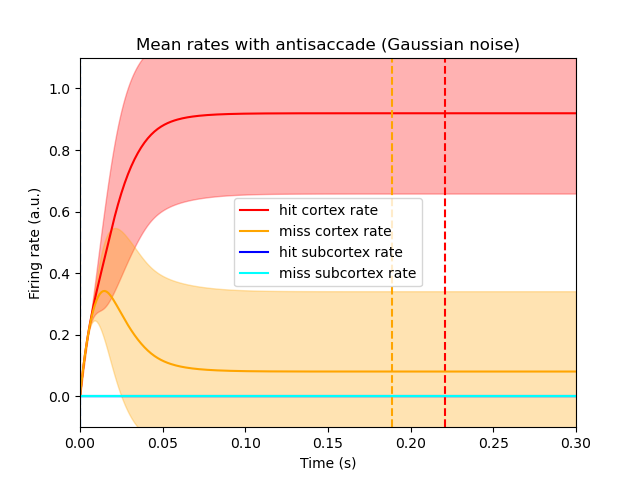
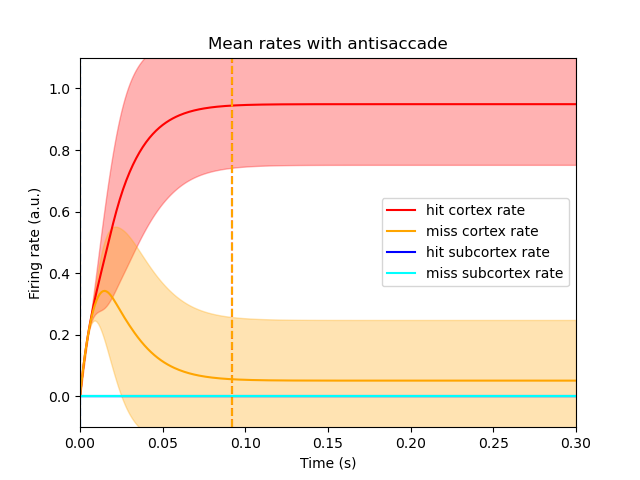
Restored stimuli-segregated plots

diff --git a/plotting.py b/plotting.py
@@ -2,6 +2,7 @@ import numpy as np
 import matplotlib.pyplot as plt
 import seaborn as sns
 import torch
+import scipy.stats as stats
 
 
 def plot_accuracy(measures, view=False, save=True):
@@ -230,39 +231,30 @@ def plot_decision_evolution(cortex_measures_pro, subcortex_measures_pro, cortex_
     time = np.arange(0, (total_time*dt)+dt, dt)
     labels = np.array(labels)
 
-    # Left and prosaccade
+    # prosaccade
     left_cortex = cortex_measures_pro[:, np.where(labels == 0)[0], :]
     right_cortex = torch.flip(cortex_measures_pro[:, np.where(labels == 1)[0], :], dims=[2])
     activations_cortex = torch.cat((left_cortex, right_cortex), dim=1)
     means_cortex = torch.mean(activations_cortex, dim=1)
-    std_cortex = torch.std(activations_cortex, dim=1)
+    std_cortex = stats.sem(activations_cortex, axis=1)
 
     left_subcortex = subcortex_measures_pro[:, np.where(labels == 0)[0], :]
     right_subcortex = torch.flip(subcortex_measures_pro[:, np.where(labels == 1)[0], :], dims=[2])
     activations_subcortex = torch.cat((left_subcortex, right_subcortex), dim=1)
     means_subcortex = torch.mean(activations_subcortex, dim=1)
-    std_subcortex = torch.std(activations_subcortex, dim=1)
+    std_subcortex = stats.sem(activations_subcortex, axis=1)
 
     equilibria = [None, None, None, None]
     for i in range(total_time):
 
-        if equilibria[0] is None and means_cortex[i, 0] == means_cortex[i+1, 0]:
-            equilibria[0] = i*dt
-        if equilibria[1] is None and means_cortex[i, 1] == means_cortex[i+1, 1]:
-            equilibria[1] = i*dt
-        if equilibria[2] is None and means_subcortex[i, 0] == means_subcortex[i+1, 0]:
-            equilibria[2] = i*dt
-        if equilibria[3] is None and means_subcortex[i, 1] == means_subcortex[i+1, 1]:
-            equilibria[3] = i*dt
-
-        '''        if equilibria[0] is None and np.abs(means_cortex[i, 0] - means_cortex[i+1, 0]) < 0.0003:
-            equilibria[0] = i*dt
-        if equilibria[1] is None and np.abs(means_cortex[i, 1] - means_cortex[i+1, 1]) < 0.0003:
-            equilibria[1] = i*dt
-        if equilibria[2] is None and np.abs(means_subcortex[i, 0] - means_subcortex[i+1, 0]) < 0.0003:
-            equilibria[2] = i*dt
-        if equilibria[3] is None and np.abs(means_subcortex[i, 1] - means_subcortex[i+1, 1]) < 0.0003:
-            equilibria[3] = i*dt'''
+        if equilibria[0] is None and np.abs(means_cortex[i, 0] - means_cortex[i + 1, 0]) < 0.0003:
+            equilibria[0] = i * dt
+        if equilibria[1] is None and np.abs(means_cortex[i, 1] - means_cortex[i + 1, 1]) < 0.0003:
+            equilibria[1] = i * dt
+        if equilibria[2] is None and np.abs(means_subcortex[i, 0] - means_subcortex[i + 1, 0]) < 0.0003:
+            equilibria[2] = i * dt
+        if equilibria[3] is None and np.abs(means_subcortex[i, 1] - means_subcortex[i + 1, 1]) < 0.0003:
+            equilibria[3] = i * dt
 
 
     plt.ylabel('Firing rate (a.u.)')
@@ -294,30 +286,30 @@ def plot_decision_evolution(cortex_measures_pro, subcortex_measures_pro, cortex_
 
     plt.clf()
 
-    # Left and antisaccade
+    # antisaccade
     left_cortex = cortex_measures_anti[:, np.where(labels == 0)[0], :]
     right_cortex = torch.flip(cortex_measures_anti[:, np.where(labels == 1)[0], :], dims=[2])
     activations_cortex = torch.cat((left_cortex, right_cortex), dim=1)
     means_cortex = torch.mean(activations_cortex, dim=1)
-    std_cortex = torch.std(activations_cortex, dim=1)
+    std_cortex = stats.sem(activations_cortex, axis=1)
 
     left_subcortex = subcortex_measures_anti[:, np.where(labels == 0)[0], :]
     right_subcortex = torch.flip(subcortex_measures_anti[:, np.where(labels == 1)[0], :], dims=[2])
     activations_subcortex = torch.cat((left_subcortex, right_subcortex), dim=1)
     means_subcortex = torch.mean(activations_subcortex, dim=1)
-    std_subcortex = torch.std(activations_subcortex, dim=1)
+    std_subcortex = stats.sem(activations_subcortex, axis=1)
 
     equilibria = [None, None, None, None]
     for i in range(total_time):
 
-        if equilibria[0] is None and means_cortex[i, 0] == means_cortex[i + 1, 0]:
-            equilibria[0] = i*dt
-        if equilibria[1] is None and means_cortex[i, 1] == means_cortex[i + 1, 1]:
-            equilibria[1] = i*dt
-        if equilibria[2] is None and means_subcortex[i, 0] == means_subcortex[i + 1, 0]:
-            equilibria[2] = i*dt
-        if equilibria[3] is None and means_subcortex[i, 1] == means_subcortex[i + 1, 1]:
-            equilibria[3] = i*dt
+        if equilibria[0] is None and np.abs(means_cortex[i, 0] - means_cortex[i + 1, 0]) < 0.0003:
+            equilibria[0] = i * dt
+        if equilibria[1] is None and np.abs(means_cortex[i, 1] - means_cortex[i + 1, 1]) < 0.0003:
+            equilibria[1] = i * dt
+        if equilibria[2] is None and np.abs(means_subcortex[i, 0] - means_subcortex[i + 1, 0]) < 0.0003:
+            equilibria[2] = i * dt
+        if equilibria[3] is None and np.abs(means_subcortex[i, 1] - means_subcortex[i + 1, 1]) < 0.0003:
+            equilibria[3] = i * dt
 
     plt.ylabel('Firing rate (a.u.)')
     plt.xlabel('Time (s)')
@@ -342,6 +334,149 @@ def plot_decision_evolution(cortex_measures_pro, subcortex_measures_pro, cortex_
 
     if save:
         plt.savefig('Pictures/time/antisaccade_time_evolution')
+    if view:
+        plt.show()
+
+    plt.clf()
+
+
+def plot_decision_layer(cortex_measures_pro, subcortex_measures_pro, cortex_measures_anti, subcortex_measures_anti, total_time, dt, labels, view=False, save=True):
+    time = np.arange(0, (total_time * dt) + dt, dt)
+    labels = np.array(labels)
+
+    # Left and prosaccade
+    activations_cortex = cortex_measures_pro[:, np.where(labels == 0)[0], :]
+    means_cortex = torch.mean(activations_cortex, dim=1)
+    std_cortex = stats.sem(activations_cortex, axis=1)
+    activations_subcortex = subcortex_measures_pro[:, np.where(labels == 0)[0], :]
+    means_subcortex = torch.mean(activations_subcortex, dim=1)
+    std_subcortex = stats.sem(activations_subcortex, axis=1)
+
+    plt.ylabel('Firing rate (a.u.)')
+    plt.xlabel('Time (s)')
+    plt.title('Mean rates: left brighter, prosaccade')
+    # _, decision = torch.max(activations[-1, :, :], 1)
+    # plt.title(f'L:{result[0,0]:.2f}, R:{result[0,1]:.2f}, D:{decision}')
+    plt.plot(time, means_cortex[:, 0], label="L cortex rate", color='red')
+    plt.fill_between(time, means_cortex[:, 0] - std_cortex[:, 0], means_cortex[:, 0] + std_cortex[:, 0], alpha=0.3,
+                     color='red')
+    plt.plot(time, means_cortex[:, 1], label="R cortex rate", color='orange')
+    plt.fill_between(time, means_cortex[:, 1] - std_cortex[:, 1], means_cortex[:, 1] + std_cortex[:, 1], alpha=0.3,
+                     color='orange')
+    plt.plot(time, means_subcortex[:, 0], label="L subcortex rate", color='blue')
+    plt.fill_between(time, means_subcortex[:, 0] - std_subcortex[:, 0], means_subcortex[:, 0] + std_subcortex[:, 0],
+                     alpha=0.3, color='blue')
+    plt.plot(time, means_subcortex[:, 1], label="R subcortex rate", color='cyan')
+    plt.fill_between(time, means_subcortex[:, 1] - std_subcortex[:, 1], means_subcortex[:, 1] + std_subcortex[:, 1],
+                     alpha=0.3, color='cyan')
+
+    plt.legend()
+    plt.xlim(0, time[-1])
+
+    if save:
+        plt.savefig('Pictures/time/prosaccade_left_time_evolution')
+    if view:
+        plt.show()
+
+    plt.clf()
+
+    # Right and prosaccade
+    activations_cortex = cortex_measures_pro[:, np.where(labels == 1)[0], :]
+    means_cortex = torch.mean(activations_cortex, dim=1)
+    std_cortex = stats.sem(activations_cortex, axis=1)
+    activations_subcortex = subcortex_measures_pro[:, np.where(labels == 1)[0], :]
+    means_subcortex = torch.mean(activations_subcortex, dim=1)
+    std_subcortex = stats.sem(activations_subcortex, axis=1)
+
+    plt.ylabel('Firing rate (a.u.)')
+    plt.xlabel('Time (s)')
+    plt.title('Mean rates: right brighter, prosaccade')
+    plt.plot(time, means_cortex[:, 0], label="L cortex rate", color='red')
+    plt.fill_between(time, means_cortex[:, 0] - std_cortex[:, 0], means_cortex[:, 0] + std_cortex[:, 0], alpha=0.3,
+                     color='red')
+    plt.plot(time, means_cortex[:, 1], label="R cortex rate", color='orange')
+    plt.fill_between(time, means_cortex[:, 1] - std_cortex[:, 1], means_cortex[:, 1] + std_cortex[:, 1], alpha=0.3,
+                     color='orange')
+    plt.plot(time, means_subcortex[:, 0], label="L subcortex rate", color='blue')
+    plt.fill_between(time, means_subcortex[:, 0] - std_subcortex[:, 0], means_subcortex[:, 0] + std_subcortex[:, 0],
+                     alpha=0.3, color='blue')
+    plt.plot(time, means_subcortex[:, 1], label="R subcortex rate", color='cyan')
+    plt.fill_between(time, means_subcortex[:, 1] - std_subcortex[:, 1], means_subcortex[:, 1] + std_subcortex[:, 1],
+                     alpha=0.3, color='cyan')
+
+    plt.legend()
+    plt.xlim(0, time[-1])
+
+    if save:
+        plt.savefig('Pictures/time/prosaccade_right_time_evolution')
+    if view:
+        plt.show()
+
+    plt.clf()
+
+    # Left and antisaccade
+    activations_cortex = cortex_measures_anti[:, np.where(labels == 0)[0], :]
+    means_cortex = torch.mean(activations_cortex, dim=1)
+    std_cortex = stats.sem(activations_cortex, axis=1)
+    activations_subcortex = subcortex_measures_anti[:, np.where(labels == 0)[0], :]
+    means_subcortex = torch.mean(activations_subcortex, dim=1)
+    std_subcortex = stats.sem(activations_subcortex, axis=1)
+
+    plt.ylabel('Firing rate (a.u.)')
+    plt.xlabel('Time (s)')
+    plt.title('Mean rates: left brighter, antisaccade')
+    plt.plot(time, means_cortex[:, 0], label="L cortex rate", color='red')
+    plt.fill_between(time, means_cortex[:, 0] - std_cortex[:, 0], means_cortex[:, 0] + std_cortex[:, 0], alpha=0.3,
+                     color='red')
+    plt.plot(time, means_cortex[:, 1], label="R cortex rate", color='orange')
+    plt.fill_between(time, means_cortex[:, 1] - std_cortex[:, 1], means_cortex[:, 1] + std_cortex[:, 1], alpha=0.3,
+                     color='orange')
+    plt.plot(time, means_subcortex[:, 0], label="L subcortex rate", color='blue')
+    plt.fill_between(time, means_subcortex[:, 0] - std_subcortex[:, 0], means_subcortex[:, 0] + std_subcortex[:, 0],
+                     alpha=0.3, color='blue')
+    plt.plot(time, means_subcortex[:, 1], label="R subcortex rate", color='cyan')
+    plt.fill_between(time, means_subcortex[:, 1] - std_subcortex[:, 1], means_subcortex[:, 1] + std_subcortex[:, 1],
+                     alpha=0.3, color='cyan')
+
+    plt.legend()
+    plt.xlim(0, time[-1])
+
+    if save:
+        plt.savefig('Pictures/time/antisaccade_left_time_evolution')
+    if view:
+        plt.show()
+
+    plt.clf()
+
+    # Right and antisaccade
+    activations_cortex = cortex_measures_anti[:, np.where(labels == 1)[0], :]
+    means_cortex = torch.mean(activations_cortex, dim=1)
+    std_cortex = stats.sem(activations_cortex, axis=1)
+    activations_subcortex = subcortex_measures_anti[:, np.where(labels == 1)[0], :]
+    means_subcortex = torch.mean(activations_subcortex, dim=1)
+    std_subcortex = stats.sem(activations_subcortex, axis=1)
+
+    plt.ylabel('Firing rate (a.u.)')
+    plt.xlabel('Time (s)')
+    plt.title('Mean rates: right brighter, antisaccade')
+    plt.plot(time, means_cortex[:, 0], label="L cortex rate", color='red')
+    plt.fill_between(time, means_cortex[:, 0] - std_cortex[:, 0], means_cortex[:, 0] + std_cortex[:, 0], alpha=0.3,
+                     color='red')
+    plt.plot(time, means_cortex[:, 1], label="R cortex rate", color='orange')
+    plt.fill_between(time, means_cortex[:, 1] - std_cortex[:, 1], means_cortex[:, 1] + std_cortex[:, 1], alpha=0.3,
+                     color='orange')
+    plt.plot(time, means_subcortex[:, 0], label="L subcortex rate", color='blue')
+    plt.fill_between(time, means_subcortex[:, 0] - std_subcortex[:, 0], means_subcortex[:, 0] + std_subcortex[:, 0],
+                     alpha=0.3, color='blue')
+    plt.plot(time, means_subcortex[:, 1], label="R subcortex rate", color='cyan')
+    plt.fill_between(time, means_subcortex[:, 1] - std_subcortex[:, 1], means_subcortex[:, 1] + std_subcortex[:, 1],
+                     alpha=0.3, color='cyan')
+
+    plt.legend()
+    plt.xlim(0, time[-1])
+
+    if save:
+        plt.savefig('Pictures/time/antisaccade_right_time_evolution')
     if view:
         plt.show()
 

diff --git a/main.py b/main.py
@@ -12,8 +12,6 @@ from plotting import *
 import torch
 
 
-# TODO: mean through iterations, plot1 no noise, same tau, no noise bigger cortex tau, noise, bigger cortex tau
-
 def main():
 
     # Hyperparameters
@@ -21,7 +19,7 @@ def main():
     BATCH_SIZE = 32
     LR = 0.003
     EPOCHS = 150
-    TIMESTEPS = 300
+    TIMESTEPS = 150
     DT = 0.001
     TAU = 0.01
     R_INITIAL = 0.0
